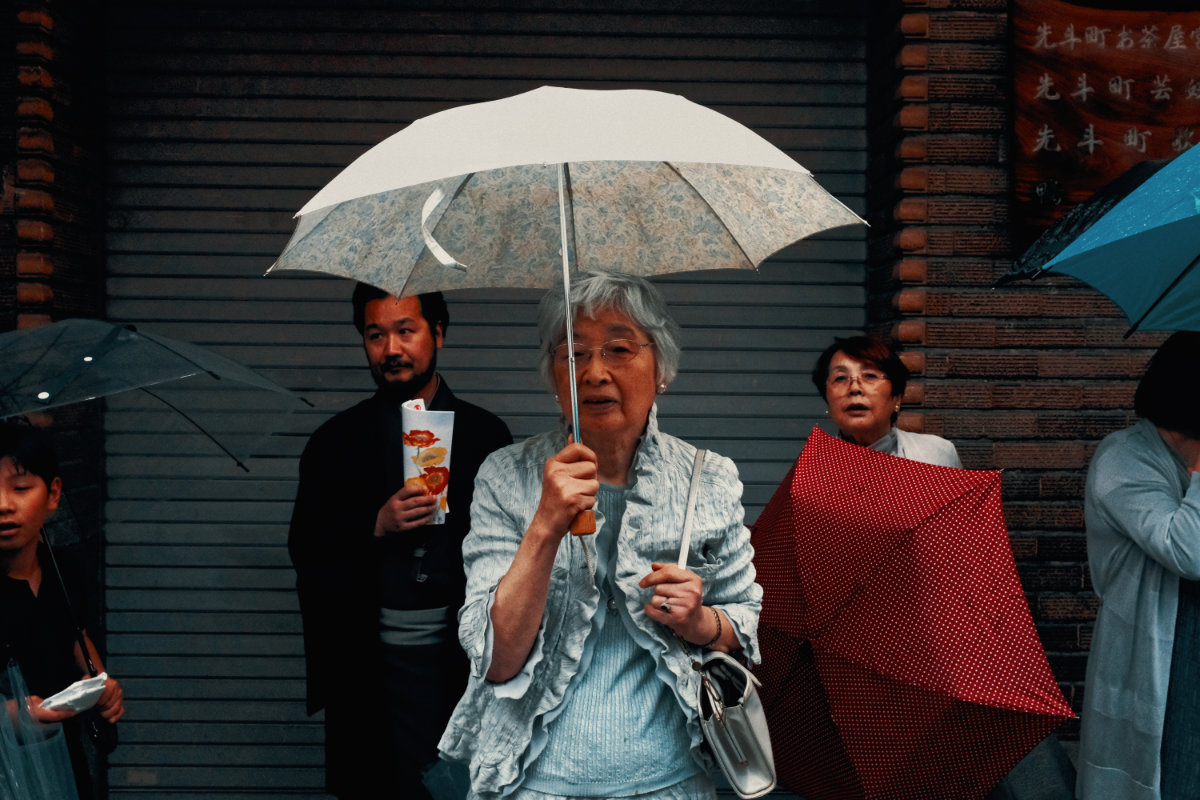
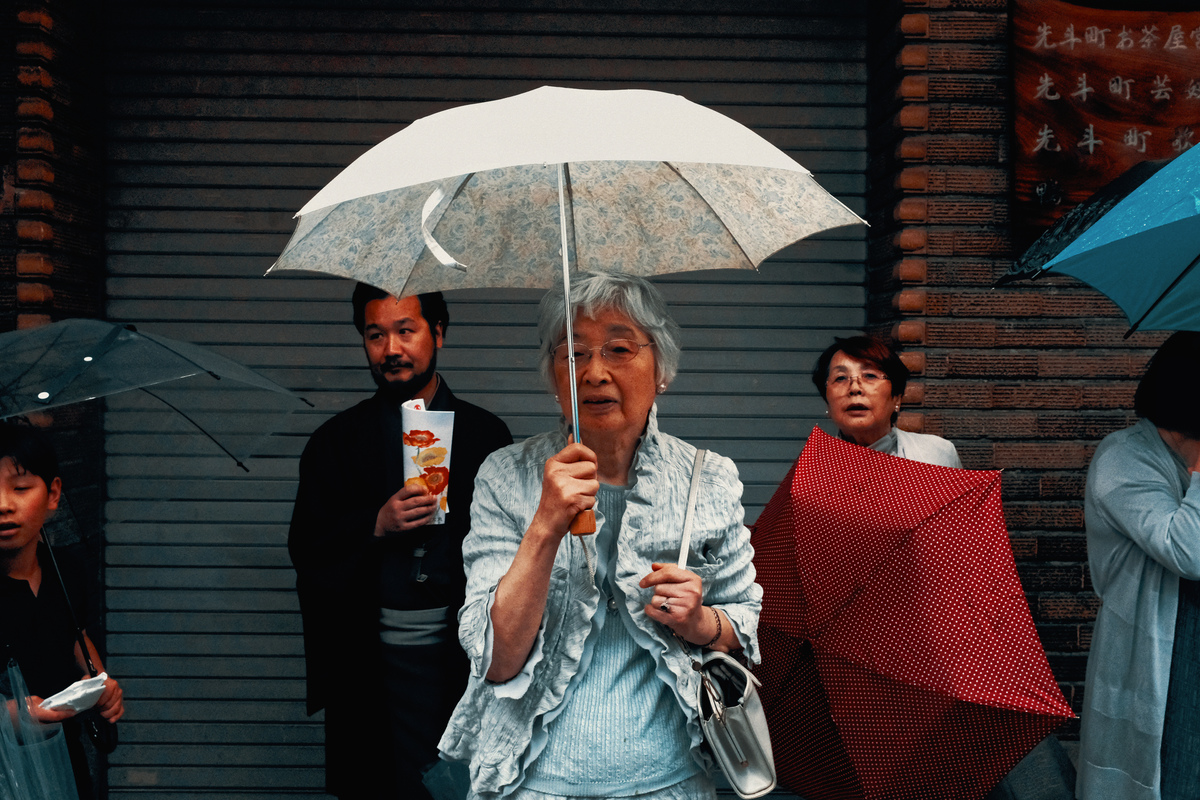
New images with better quality

diff --git a/japan.html b/japan.html
@@ -34,7 +34,7 @@
                                 <div class="single-slide hide"><img oncontextmenu="return false;" class="contain" src="Resources/Photos/Japan/11_japan.jpg"; onclick="SetNextIndexbyPosition(event)"></div>                        
                                 <div class="single-slide hide"><img oncontextmenu="return false;" class="contain" src="Resources/Photos/Japan/13_japan.jpg"; onclick="SetNextIndexbyPosition(event)"></div>     
                                 <div class="single-slide hide"><img oncontextmenu="return false;" class="contain" src="Resources/Photos/Japan/14_japan.jpg"; onclick="SetNextIndexbyPosition(event)"></div>     
-                                <div class="single-slide hide"><img oncontextmenu="return false;" class="contain" src="Resources/Photos/Japan/15_japan.jpg"; onclick="SetNextIndexbyPosition(event)"></div>                        
+                                <div class="single-slide hide"><img oncontextmenu="return false;" class="contain" src="Resources/Photos/Japan/15_japan.jpg"; onclick="SetNextIndexbyPosition(event)"></div>                     
                                 <div class="single-slide hide"><img oncontextmenu="return false;" class="contain" src="Resources/Photos/Japan/17_japan.jpg"; onclick="SetNextIndexbyPosition(event)"></div>              
                                 <div class="single-slide hide"><img oncontextmenu="return false;" class="contain" src="Resources/Photos/Japan/19_japan.jpg"; onclick="SetNextIndexbyPosition(event)"></div>      
                                 <div class="single-slide hide"><img oncontextmenu="return false;" class="contain" src="Resources/Photos/Japan/20_japan.jpg"; onclick="SetNextIndexbyPosition(event)"></div> 
@@ -42,6 +42,7 @@
                                 <div class="single-slide hide"><img oncontextmenu="return false;" class="contain" src="Resources/Photos/Japan/22_japan.jpg"; onclick="SetNextIndexbyPosition(event)"></div>   
                                 <div class="single-slide hide"><img oncontextmenu="return false;" class="contain" src="Resources/Photos/Japan/23_japan.jpg"; onclick="SetNextIndexbyPosition(event)"></div>    
                                 <div class="single-slide hide"><img oncontextmenu="return false;" class="contain" src="Resources/Photos/Japan/25_japan.jpg"; onclick="SetNextIndexbyPosition(event)"></div>   
+                                <div class="single-slide hide"><img oncontextmenu="return false;" class="contain" src="Resources/Photos/Japan/31_japan.jpg"; onclick="SetNextIndexbyPosition(event)"></div>     
                                 <div class="single-slide hide"><img oncontextmenu="return false;" class="contain" src="Resources/Photos/Japan/26_japan.jpg"; onclick="SetNextIndexbyPosition(event)"></div>    
                                 <div class="single-slide hide"><img oncontextmenu="return false;" class="contain" src="Resources/Photos/Japan/27_japan.jpg"; onclick="SetNextIndexbyPosition(event)"></div>                             
                                 <div class="single-slide hide"><img oncontextmenu="return false;" class="contain" src="Resources/Photos/Japan/29_japan.jpg"; onclick="SetNextIndexbyPosition(event)"></div>    
